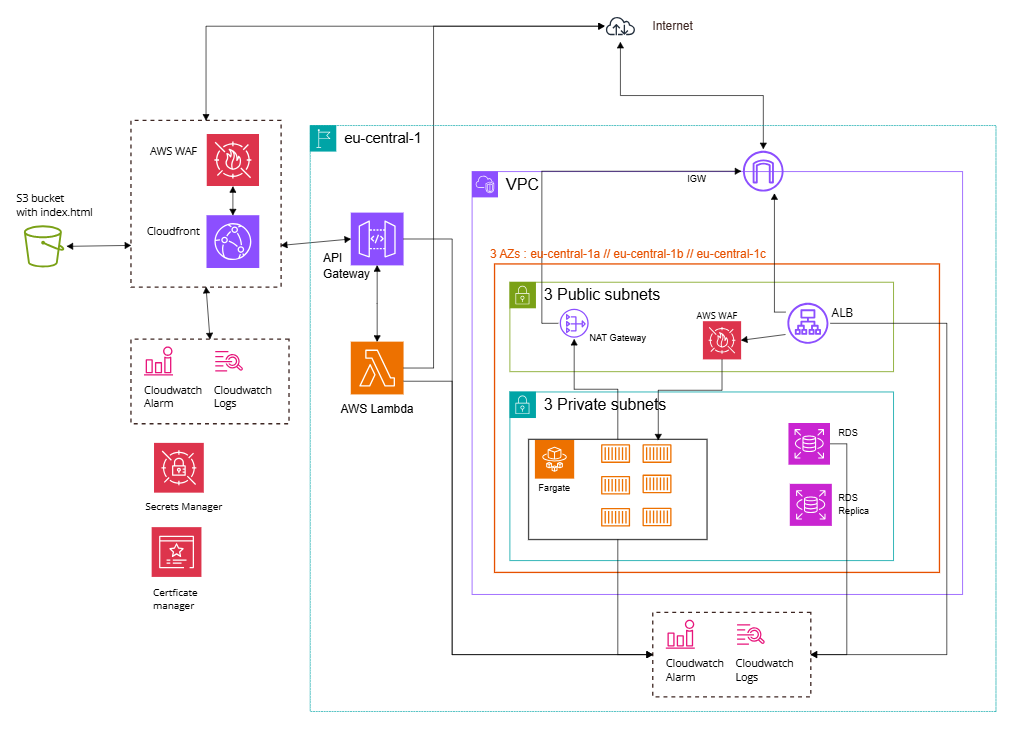
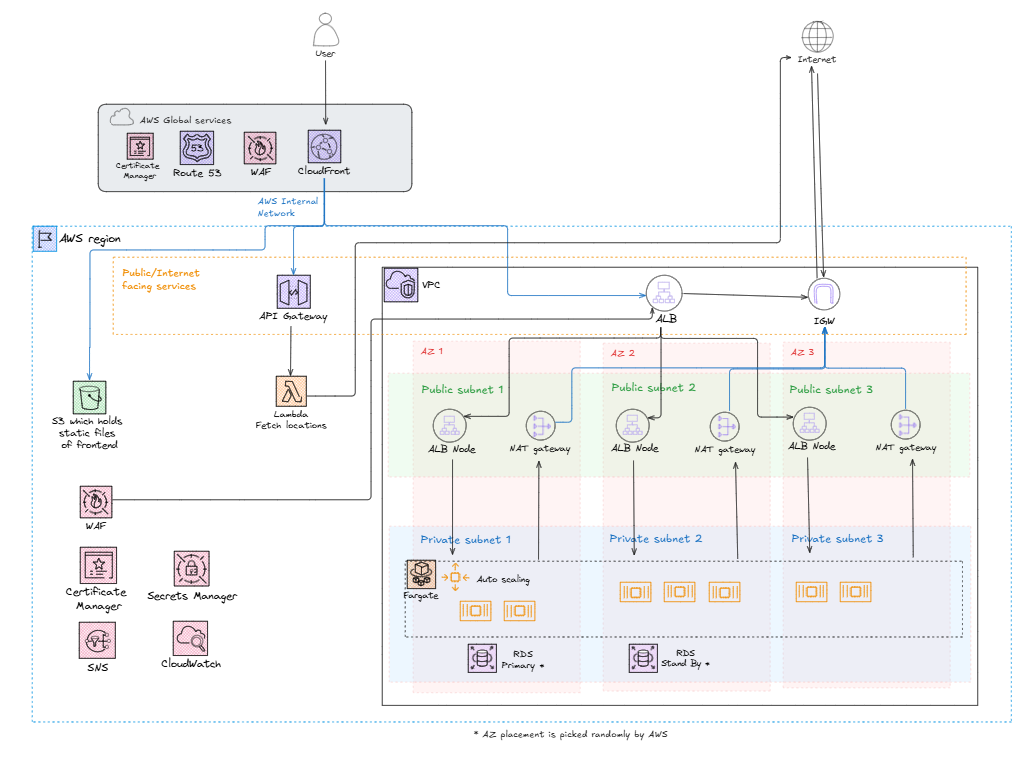
feat: updated trip planner web app infra image

diff --git a/README.md b/README.md
@@ -114,13 +114,13 @@
   <tr>
     <td align="center">
       <a href="https://github.com/lrasata/infra-trip-planner-webapp">
-        <strong>Trip Planner Infrastructure</strong><br />
+        <strong>Trip Planner web app</strong><br />
         <img src="./docs/trip-planner-infra.png" height="150px" alt="Trip planner infrastrcture" />
       </a>
     </td>
     <td align="center">
       <a href="https://github.com/lrasata/infra-lrasata-website">
-        <strong>Portfolio website Infrastructure</strong><br />
+        <strong>Portfolio website</strong><br />
         <img src="./docs/lrasata-website-infra.png" height="150px" alt="lrasata website infrastrcture" />
       </a>
     </td>
